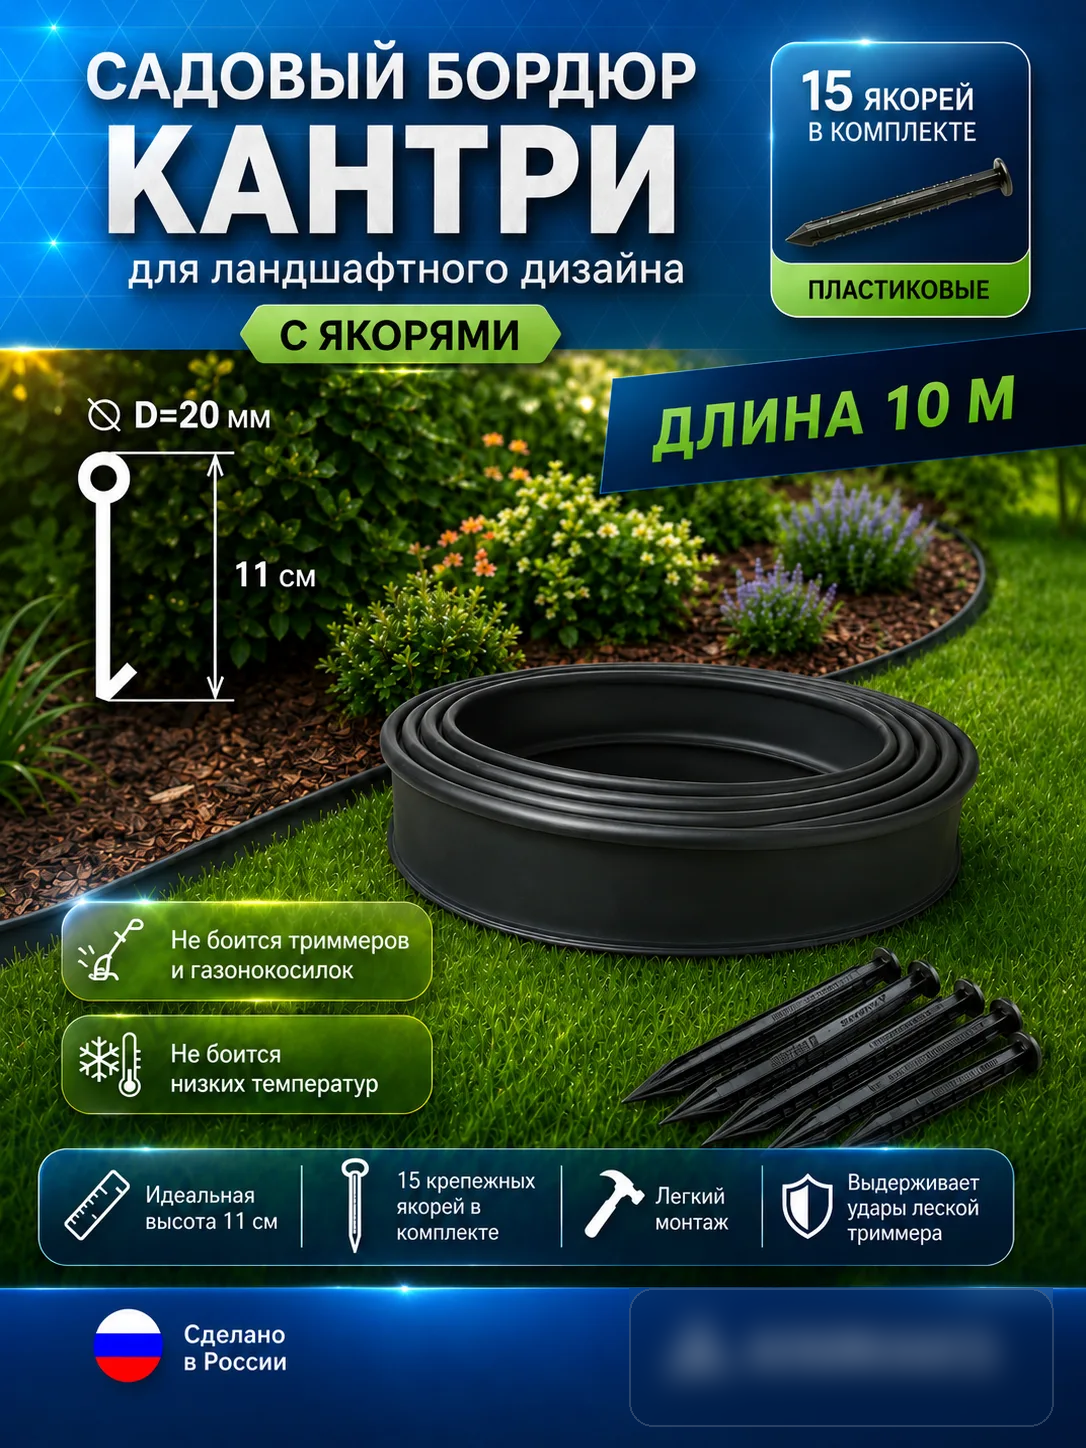
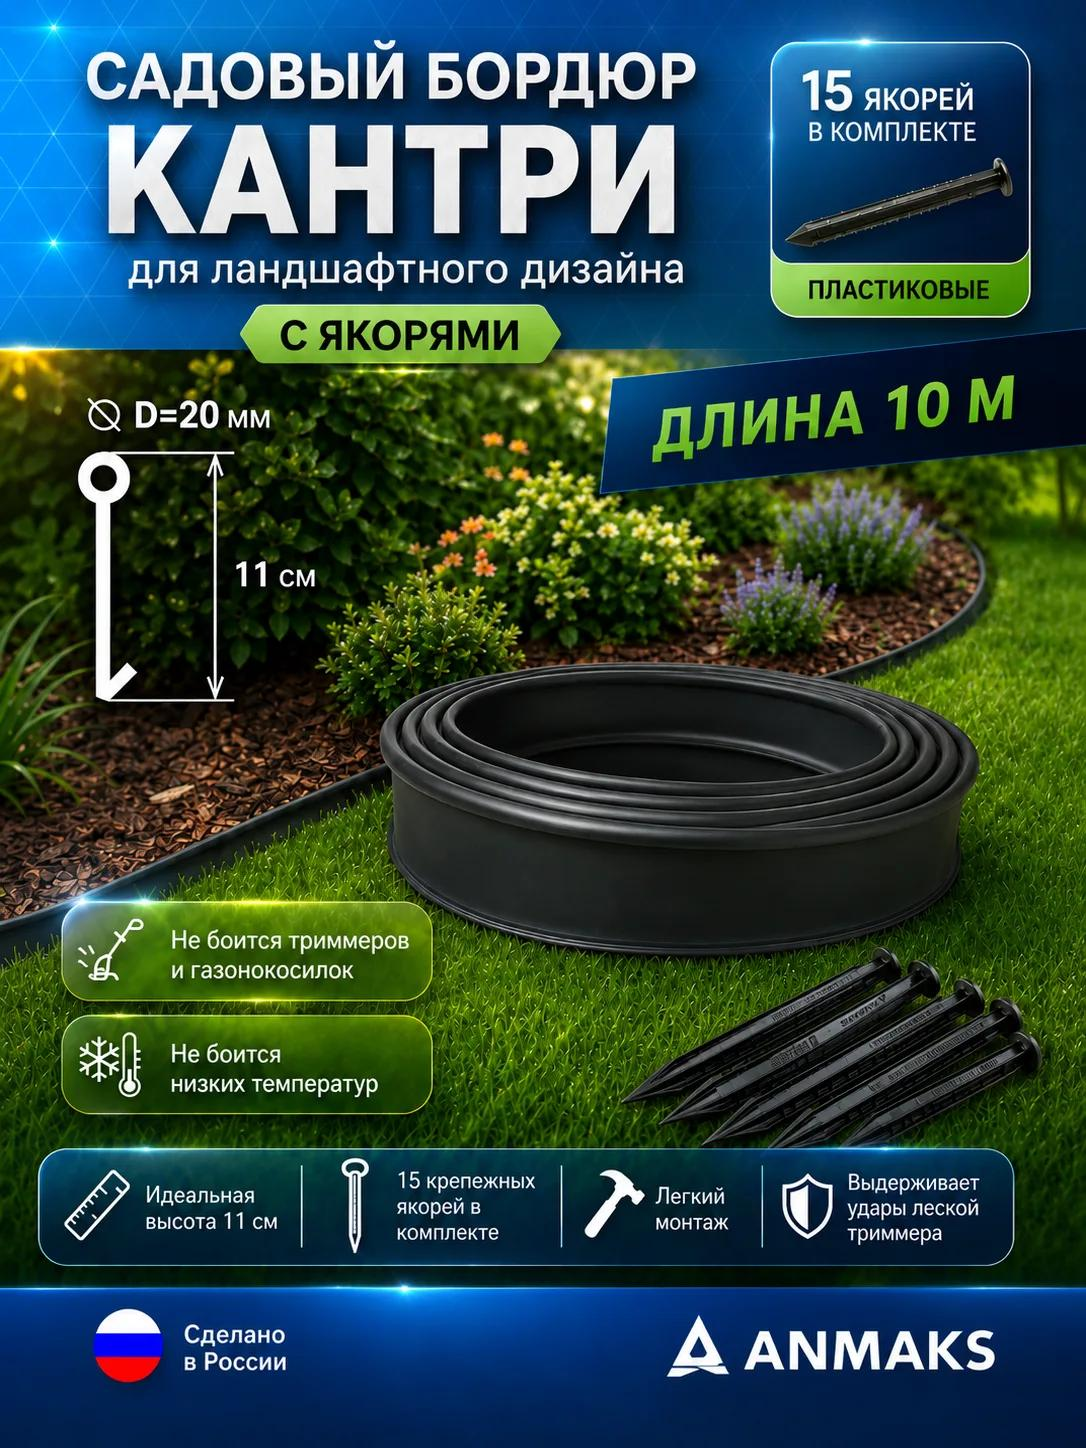
Update curated portfolio items

Changed region(s): [[0.5773, 0.8702, 0.9724, 0.9634]]

diff --git a/app.js b/app.js
@@ -1,4 +1,4 @@
-const data = window.PORTFOLIO_DATA || { series: [], presentations: [], heroImages: [] };
+const data = window.PORTFOLIO_DATA || { series: [], presentations: [], heroImages: [] };
 
 const heroStrip = document.querySelector("#heroStrip");
 const seriesNav = document.querySelector("#seriesNav");
@@ -70,8 +70,7 @@ function renderSeries() {
 function renderPresentations() {
   visiblePresentations = [
     data.presentations.find((item) => item.title.startsWith("Roblox Quest.")),
-    data.presentations.find((item) => item.title.startsWith("Урок 9.")),
-    data.presentations.find((item) => item.title.startsWith("Урок 1."))
+    data.presentations.find((item) => item.src.includes("python-quest-01"))
   ].filter(Boolean);
 
   if (!visiblePresentations.length) {

diff --git a/portfolio-data.js b/portfolio-data.js
@@ -209,6 +209,11 @@ window.PORTFOLIO_DATA = {
           "title": "Смена ракурса и сцены",
           "src": "assets/series/furniture/furniture-018.jpg",
           "original": "C:\\Users\\Олеся\\Desktop\\референс\\Дизайнеры\\gemini-3-pro-image-preview-2k (nano-banana-pro)_b_нужно_поменять_ракур.png"
+        },
+        {
+          "title": "Расстановка мебели в линию",
+          "src": "assets/series/furniture/furniture-016.jpg",
+          "original": ""
         }
       ]
     },